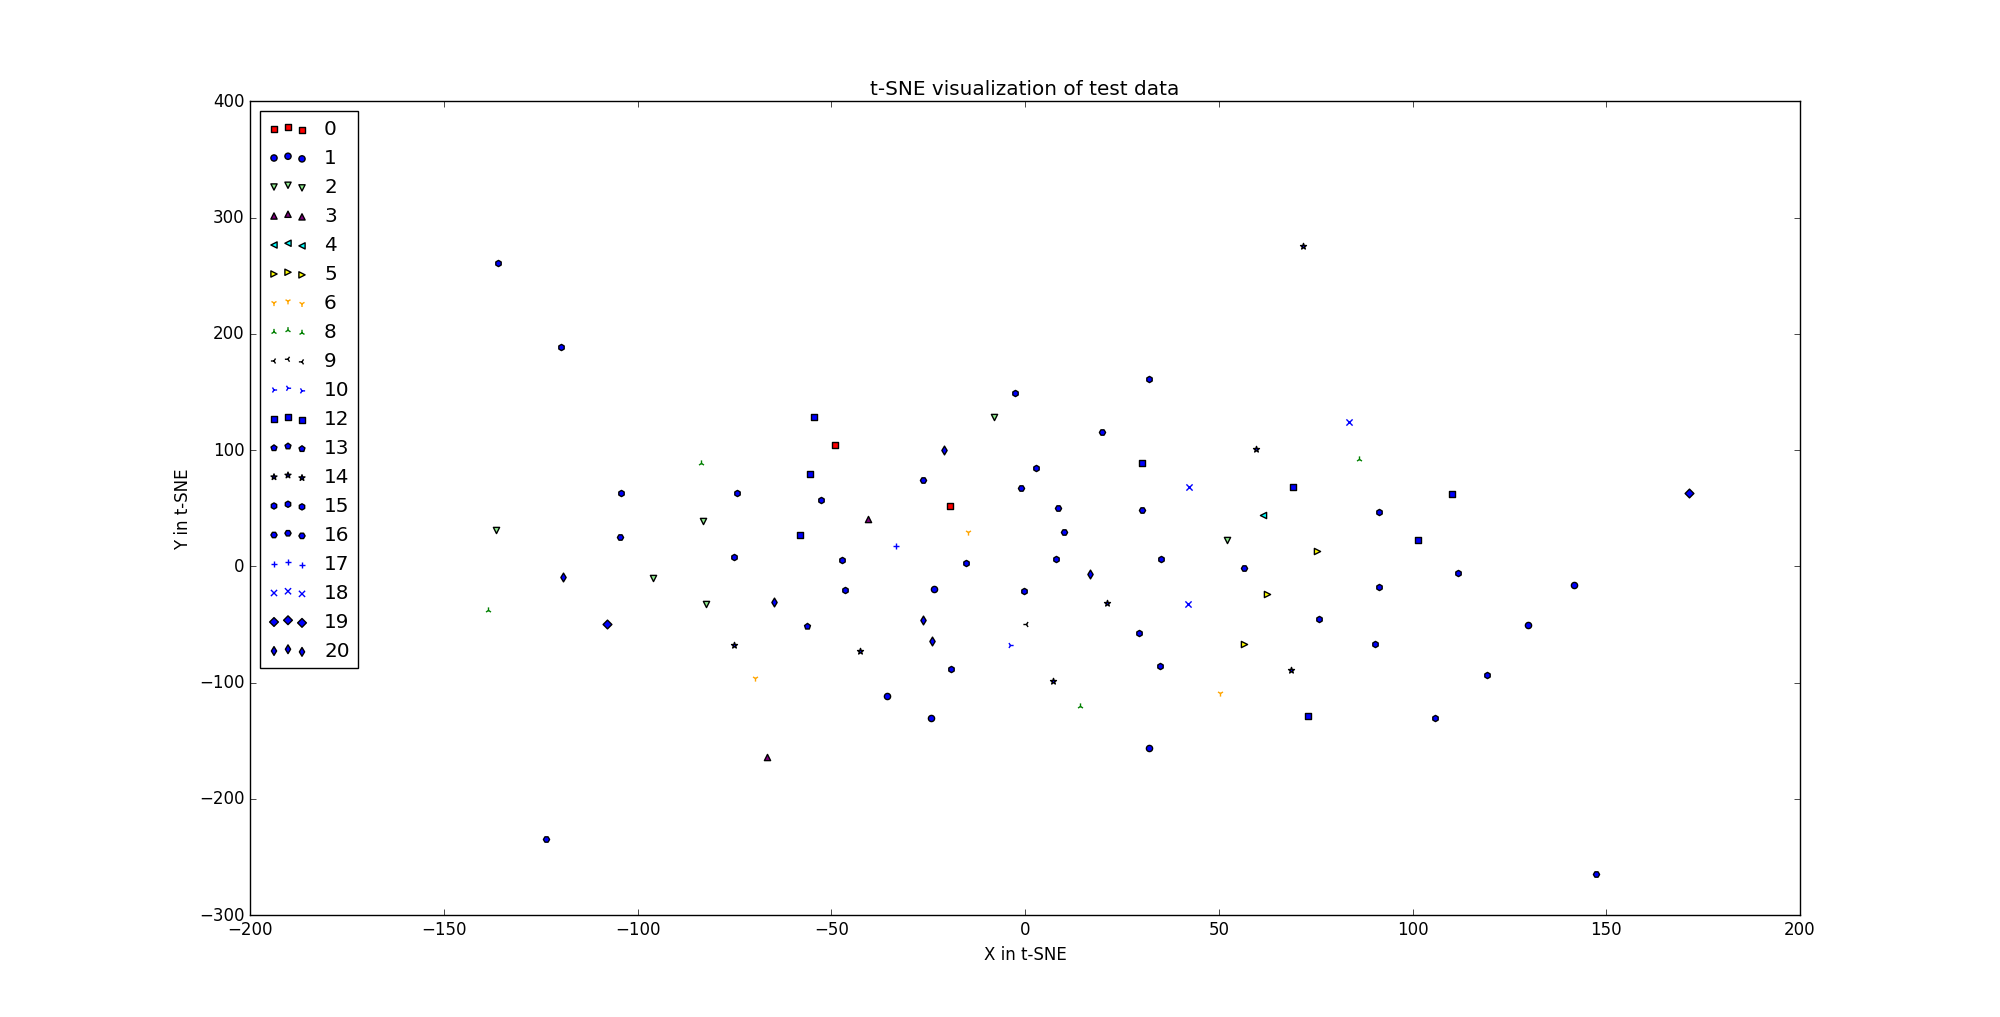
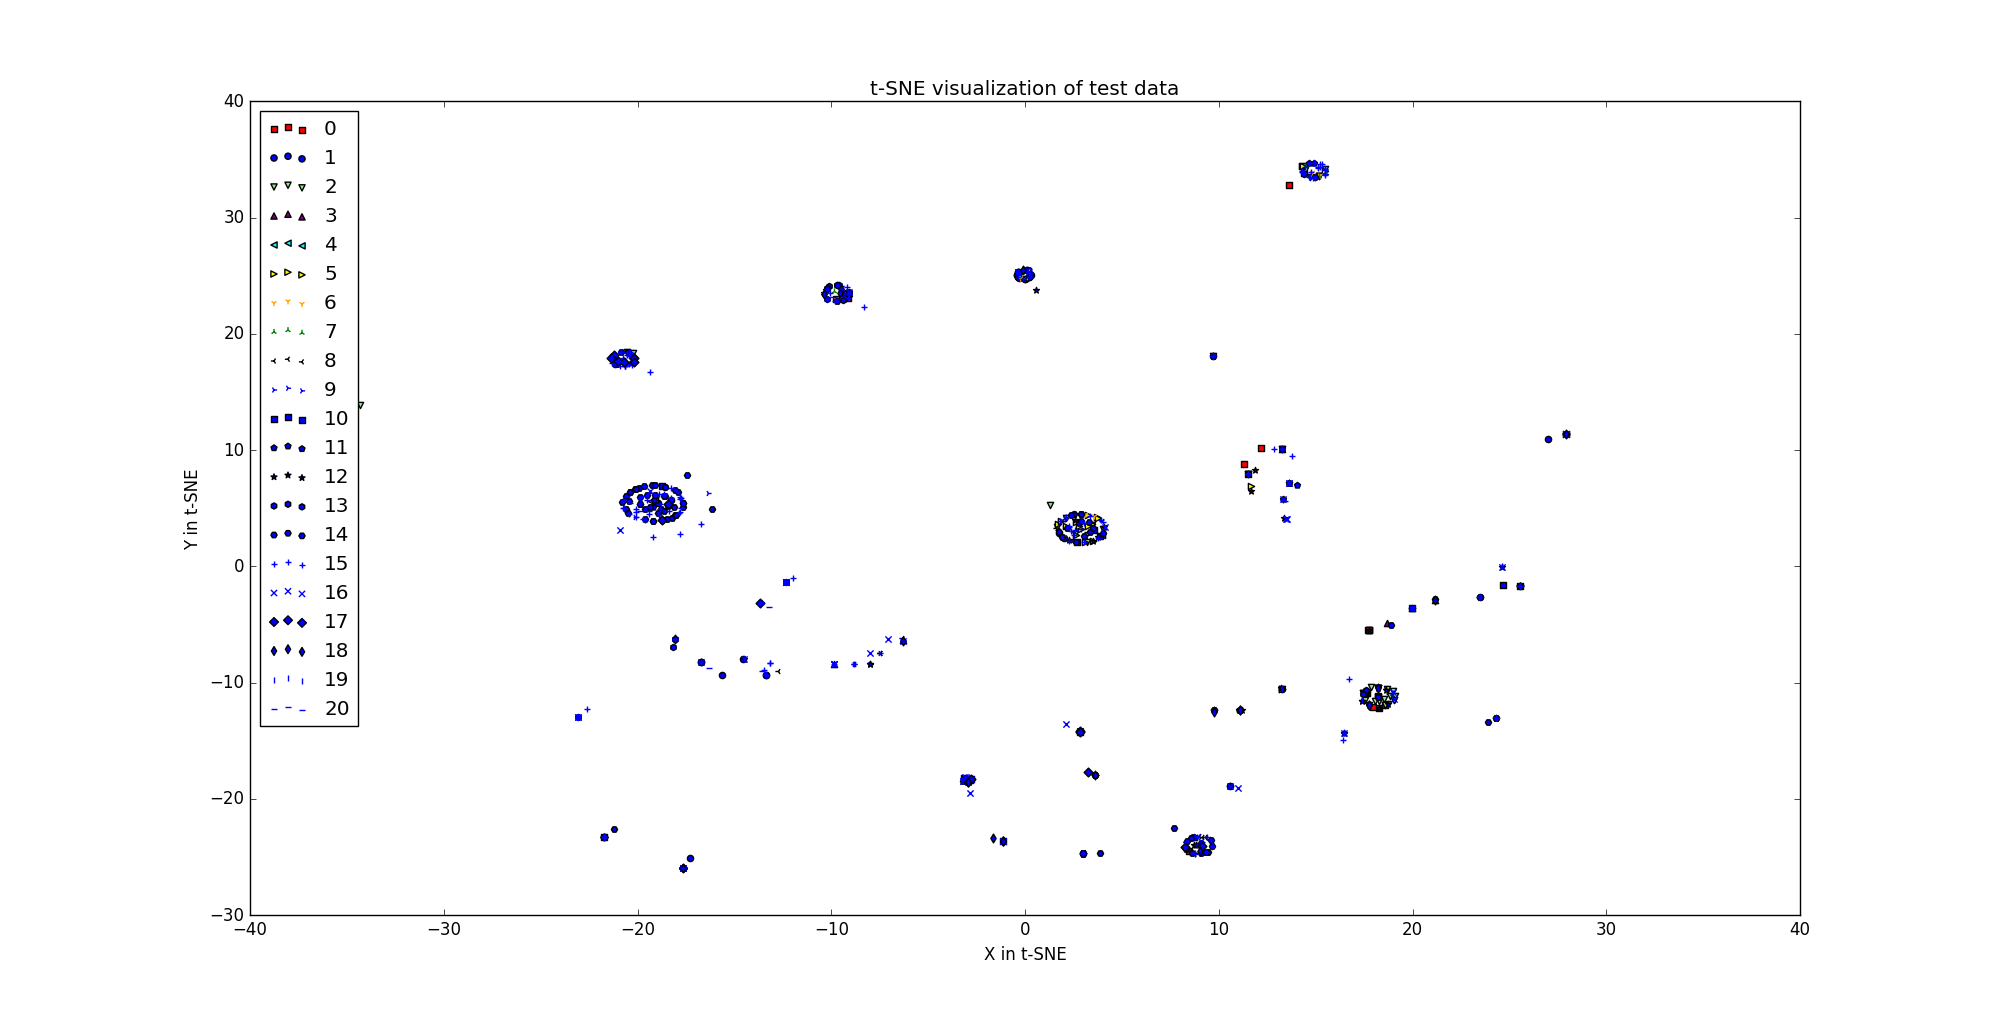
Updated!

diff --git a/t-SNE_GoT.py b/t-SNE_GoT.py
@@ -37,14 +37,11 @@ class_labels = np.unique(y)
 label_encoder = LabelEncoder()
 y = label_encoder.fit_transform(y)
 
-# step 5: split the data into training set and test set
-test_percentage = 0.1
-x_train, x_test, y_train, y_test = train_test_split(x_std, y, test_size = test_percentage, random_state = 0)
 
 # t-distributed Stochastic Neighbor Embedding (t-SNE) visualization
 from sklearn.manifold import TSNE
 tsne = TSNE(n_components=2, random_state=0)
-x_test_2d = tsne.fit_transform(x_test)
+x_std_2d = tsne.fit_transform(x_std)
 
 #define markers and colors depending on the number of classes (in this case 21 classes equal to houses in GoT)
 markers=(',','o','v','^','<','>','1','2','3','4','s','p','*','h','H','+','x','D','d','|','_')
@@ -54,8 +51,8 @@ color_map = {0:'red', 1:'blue', 2:'lightgreen', 3:'purple', 4:'cyan', 5:'yellow'
 
 #plot the data
 plt.figure()
-for idx, cl in enumerate(np.unique(y_test)):
-    plt.scatter(x=x_test_2d[y_test==cl,0], y=x_test_2d[y_test==cl,1], c=color_map[idx], marker=markers[idx], label=cl)
+for idx, cl in enumerate(np.unique(y)):
+    plt.scatter(x=x_std_2d[y==cl,0], y=x_std_2d[y==cl,1], c=color_map[idx], marker=markers[idx], label=cl)
 plt.xlabel('X in t-SNE')
 plt.ylabel('Y in t-SNE')
 plt.legend(loc='upper left')

diff --git a/README.md b/README.md
@@ -5,3 +5,15 @@ Visualize multidimensional Game of Thrones data-set using t-SNE.
 
 2. Run the python file:
         t-SNE_GoT.py
+
+
+
+ 3.Print the label meaning by printing the class_labels as:
+ 	print class_labels
+
+In this case the 21 labels are:
+
+ ['Arryn' 'Baratheon' 'Greyjoy' 'House Arryn' 'House Baratheon'
+ 'House Greyjoy' 'House Lannister' 'House Martell' 'House Stark'
+ 'House Targaryen' 'House Tully' 'House Tyrell' 'Lannister' 'Martell'
+ "Night's Watch" 'None' 'Stark' 'Targaryen' 'Tully' 'Tyrell' 'Wildling']
